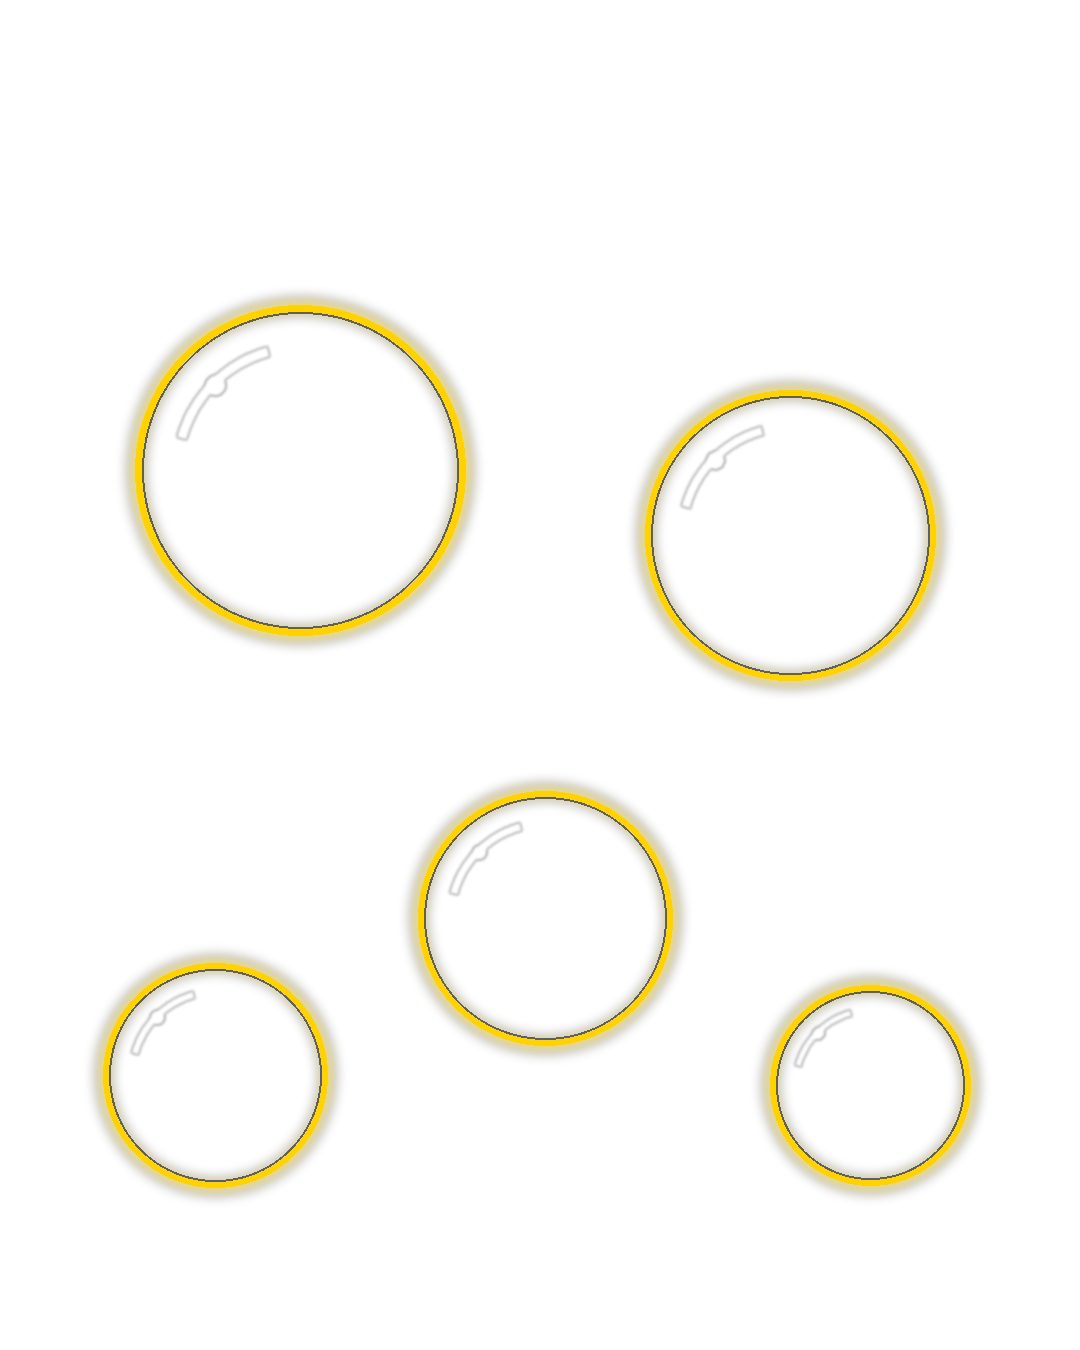
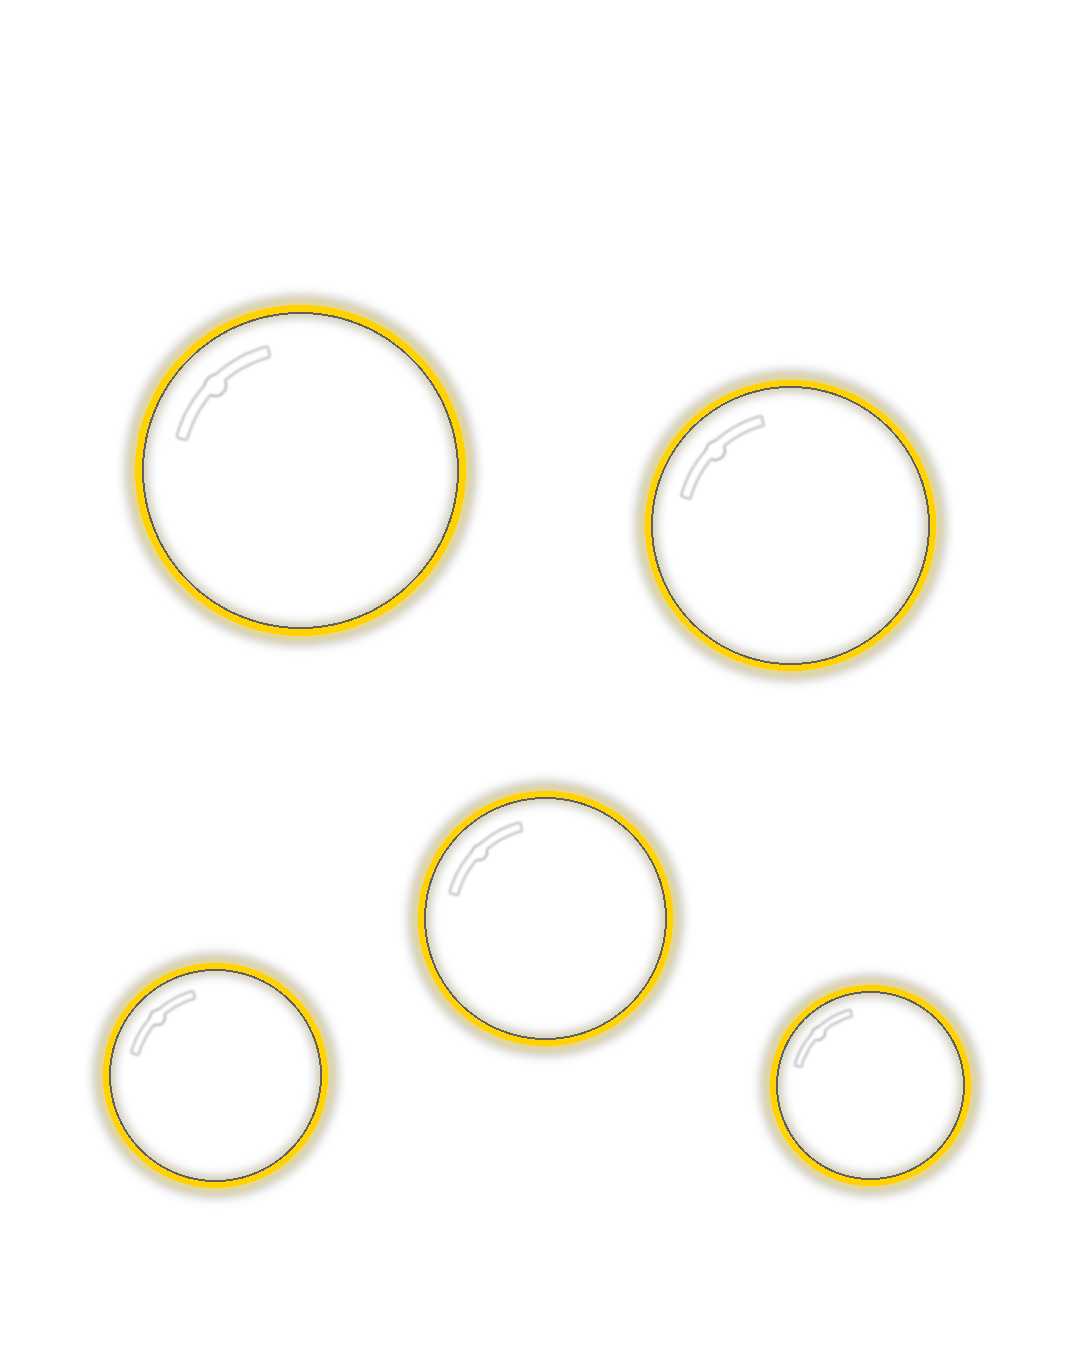
Bubble slide: taller label plates and two-line Why
- make_bubble_bg.py: label plates 112px tall (was 96) and at least 330px
  wide (was 300); #12 raised 10px to clear #13. Background, overlay and
  bubble_slots.json regenerated.
- render_graphics: Why wraps to two lines by pixel width (ellipsis only if
  it still overflows); the label block is centred when it has fewer lines.
- generate_chips: bubble Why cap 45 -> 75 chars; the comparison player is
  named, not ranked, so the model stops writing "#10's".

Changed region(s): [[0.5806, 0.4044, 0.8861, 0.5289], [0.5806, 0.2489, 0.8861, 0.3733]]

diff --git a/src/publish/render_graphics.py b/src/publish/render_graphics.py
@@ -169,6 +169,23 @@ def fit_text(draw, text, font, max_w) -> str:
     return text
 
 
+def wrap_text(draw, text, font, max_w, max_lines: int) -> List[str]:
+    """Greedy word-wrap by pixel width; the last allowed line is ellipsized if it overflows."""
+    lines: List[str] = []
+    cur = ""
+    for word in text.split():
+        if cur and text_w(draw, f"{cur} {word}", font) > max_w:
+            lines.append(cur)
+            cur = word
+        else:
+            cur = f"{cur} {word}".strip()
+    lines.append(cur)
+    if len(lines) > max_lines:
+        lines = lines[:max_lines - 1] + [" ".join(lines[max_lines - 1:])]
+    lines[-1] = fit_text(draw, lines[-1], font, max_w)
+    return lines
+
+
 def draw_rank_badge(canvas: Image.Image, cx: int, cy: int, r: int, rank: int, size: int,
                     outline_w: int = 2):
     bl = Image.new("RGBA", canvas.size, (0, 0, 0, 0))
@@ -470,14 +487,18 @@ def _bubble_headshot(player_key: str, d: int) -> Image.Image:
 
 
 def draw_bubble_label(canvas: Image.Image, slot: dict, player: pd.Series, why: Optional[str]):
-    """Name / TEAM · POS + movement / gold Why, centred in the slot's label_box."""
+    """Name / TEAM · POS + movement / gold Why (up to 2 wrapped lines), centred in the
+    slot's label_box. The plate is sized for two Why lines; fewer lines shift the block down."""
     draw = ImageDraw.Draw(canvas)
     lb = slot["label_box"]
     cx, max_w = (lb[0] + lb[2]) // 2, lb[2] - lb[0] - 16
+    wf, why_lh = _font("fg_med_cond", 20), 21
+    why_lines = wrap_text(draw, why.strip(), wf, max_w, max_lines=2) if isinstance(why, str) and why.strip() else []
+    top = lb[1] + (2 - len(why_lines)) * why_lh // 2
 
     nf = _font("agency_bold", 30 if slot["d"] > 240 else 26)
     name = fit_text(draw, str(player.get("player_name", "")).upper(), nf, max_w)
-    draw.text((cx - text_w(draw, name, nf) // 2, lb[1] + 6), name, font=nf, fill=WHITE,
+    draw.text((cx - text_w(draw, name, nf) // 2, top + 6), name, font=nf, fill=WHITE,
               stroke_width=1, stroke_fill=BLACK)
 
     mf = _font("fg_demi_cond", 22)
@@ -485,13 +506,11 @@ def draw_bubble_label(canvas: Image.Image, slot: dict, player: pd.Series, why: O
     probe = Image.new("RGBA", (10, 10))
     move_w = draw_movement(ImageDraw.Draw(probe), 0, 0, player.get("movement", ""), 22)
     x = cx - (text_w(draw, meta, mf) + move_w) // 2
-    draw.text((x, lb[1] + 44), meta, font=mf, fill=GREY)
-    draw_movement(draw, x + text_w(draw, meta, mf), lb[1] + 44, player.get("movement", ""), 22)
+    draw.text((x, top + 44), meta, font=mf, fill=GREY)
+    draw_movement(draw, x + text_w(draw, meta, mf), top + 44, player.get("movement", ""), 22)
 
-    if isinstance(why, str) and why.strip():
-        wf = _font("fg_med_cond", 20)
-        wt = fit_text(draw, why.strip(), wf, max_w)
-        draw.text((cx - text_w(draw, wt, wf) // 2, lb[1] + 68), wt, font=wf, fill=GOLD)
+    for i, wt in enumerate(why_lines):
+        draw.text((cx - text_w(draw, wt, wf) // 2, top + 66 + i * why_lh), wt, font=wf, fill=GOLD)
 
 
 def render_bubble_graphic(board: pd.DataFrame, chip_df: pd.DataFrame, gfx_dir: Path,

diff --git a/src/publish/make_bubble_bg.py b/src/publish/make_bubble_bg.py
@@ -28,15 +28,15 @@ def font(name, size):
 #    sinking toward #15. Zig-zag so labels never sit under another bubble.
 SLOTS = [
     {"rank": 11, "cx": 300, "cy": 470,  "d": 330},
-    {"rank": 12, "cx": 790, "cy": 535,  "d": 290},
+    {"rank": 12, "cx": 790, "cy": 525,  "d": 290},
     {"rank": 13, "cx": 545, "cy": 918,  "d": 255},
     {"rank": 14, "cx": 215, "cy": 1075, "d": 225},
     {"rank": 15, "cx": 870, "cy": 1085, "d": 200},
 ]
-LABEL_H = 96
+LABEL_H = 112  # name + meta + up to two Why lines
 for s in SLOTS:
     r = s["d"] // 2
-    lw = max(s["d"] + 40, 300)
+    lw = max(s["d"] + 40, 330)
     s["label_box"] = [s["cx"] - lw // 2, s["cy"] + r + 8, s["cx"] + lw // 2, s["cy"] + r + 8 + LABEL_H]
     a = math.radians(135)  # rank badge at ~7:30 on the ring
     s["rank_badge"] = [int(s["cx"] + r * math.cos(a)), int(s["cy"] + r * math.sin(a))]
@@ -171,12 +171,23 @@ for s, (_, p) in zip(SLOTS, board.iterrows()):
     x = cx - (bb1[2] + bb2[2]) // 2
     d.text((x, lb[1] + 44), meta, font=mf, fill=GREY)
     d.text((x + bb1[2], lb[1] + 44), mv, font=mf, fill=UP if mv.startswith("↑") else DOWN if mv.startswith("↓") else GOLD)
-    wf = font("bc_med", 20); wt = whys[int(p['rank'])]; bb = d.textbbox((0, 0), wt, font=wf)
-    if bb[2] - bb[0] > lb[2] - lb[0] - 16:
-        while bb[2] - bb[0] > lb[2] - lb[0] - 16:
-            wt = wt[:-1].rstrip(); bb = d.textbbox((0, 0), wt + "…", font=wf)
-        wt += "…"
-    d.text((cx - (bb[2] - bb[0]) // 2, lb[1] + 68), wt, font=wf, fill=GOLD)
+    # Why: greedy word-wrap to two lines; ellipsis only if it still overflows
+    wf = font("bc_med", 20); maxw = lb[2] - lb[0] - 16
+    tw = lambda t: d.textbbox((0, 0), t, font=wf)[2]
+    lines, cur = [], ""
+    for word in whys[int(p['rank'])].split():
+        if cur and tw(cur + " " + word) > maxw:
+            lines.append(cur); cur = word
+        else:
+            cur = f"{cur} {word}".strip()
+    lines.append(cur)
+    if len(lines) > 2:
+        last = " ".join(lines[1:])
+        while tw(last + "…") > maxw:
+            last = last[:-1].rstrip()
+        lines = [lines[0], last + "…"]
+    for i, wt in enumerate(lines):
+        d.text((cx - tw(wt) // 2, lb[1] + 66 + i * 21), wt, font=wf, fill=GOLD)
 f1, f2 = font("oswald", 24), font("bc_med", 16)
 for t, fnt, col, y in (("STATS THROUGH WEEK 7", f1, GOLD, FOOTER["cy"] - 14), ("Bubble size = closeness to the top 10", f2, GREY, FOOTER["cy"] + 20)):
     bb = d.textbbox((0, 0), t, font=fnt); d.text((FOOTER["cx"] - (bb[2] - bb[0]) // 2, y), t, font=fnt, fill=col, stroke_width=1 if fnt is f1 else 0, stroke_fill=BLACK)

diff --git a/src/publish/generate_chips.py b/src/publish/generate_chips.py
@@ -43,7 +43,7 @@ Rules:
 {"chip": "Tag1 | Tag2 | Tag3", "why": "One sentence explanation."}"""
 
 
-BUBBLE_WHY_MAX = 45   # fits the smallest bubble label plate (#15, 300 px)
+BUBBLE_WHY_MAX = 75   # two wrapped lines on the narrowest bubble label plate (330 px)
 
 BUBBLE_SYSTEM_PROMPT = f"""You write a one-line "Why" for players ranked just outside the top 10 of an NFL MVP prediction board ("On the Bubble").
 
@@ -51,7 +51,8 @@ Rules:
 - At most {BUBBLE_WHY_MAX} characters, including spaces. Shorter is better. No ending period.
 - Stats only: use ONLY the numbers given in the user message. Never invent, infer, or assume a stat.
 - When the stats show it, say what is keeping the player out of the top 10 (e.g. team record, TD total, vs the #10 player's line). Otherwise name their best stat.
-- No player name, no rank number, no hype adjectives.
+- Never mention this player's name or any rank number (no "#10"). Refer to the comparison player by last name only.
+- No hype adjectives.
 - Output ONLY valid JSON in exactly this shape, nothing else, no markdown fences, no preamble:
 {{"why": "Short line"}}"""
 
@@ -98,7 +99,7 @@ def build_bubble_message(player: pd.Series, cutoff: pd.Series | None) -> str:
            f"Games: {int(player['games'])} of {int(player['team_games'])} team games\n"
            f"Stats: {stat_line(player)}")
     if cutoff is not None:
-        msg += (f"\n\nFor comparison, #{int(cutoff['rank'])} {cutoff['player_name']} "
+        msg += (f"\n\nFor comparison, the last player inside the top 10: {cutoff['player_name']} "
                 f"({cutoff['position']}, team record {_record(cutoff)}): {stat_line(cutoff)}")
     return msg
 

diff --git a/CLAUDE.md b/CLAUDE.md
@@ -79,8 +79,8 @@ Until it first exists, the old 10-row `.prev_top10_mvp.csv` is read instead (and
 **On the Bubble slide.** `render_bubble_graphic` pastes circular headshots for `BUBBLE_RANKS` into
 `MVP Bubble NFL.png`, composites `MVP Bubble NFL overlay.png` (rings, gloss) over them, then draws badges and
 labels. All geometry comes from `assets/bubble_slots.json`. `src/publish/make_bubble_bg.py` regenerates the
-background, overlay and JSON and renders a reference preview. Bubble players get a Why (≤45 chars, enforced
-in code) but no chips, in the same `chip_data_latest.csv`.
+background, overlay and JSON and renders a reference preview. Bubble players get a Why (≤75 chars, enforced
+in code; wrapped to two lines on the slide) but no chips, in the same `chip_data_latest.csv`.
 
 **stinger-assets contract.** `player_key = firstname_lastname_team` (nflreadpy team code, lowercased) and must
 equal `safe_filename(f"{name} {team}")` in `stinger-assets/sync_espn_headshots.py` (apostrophes/periods dropped,
